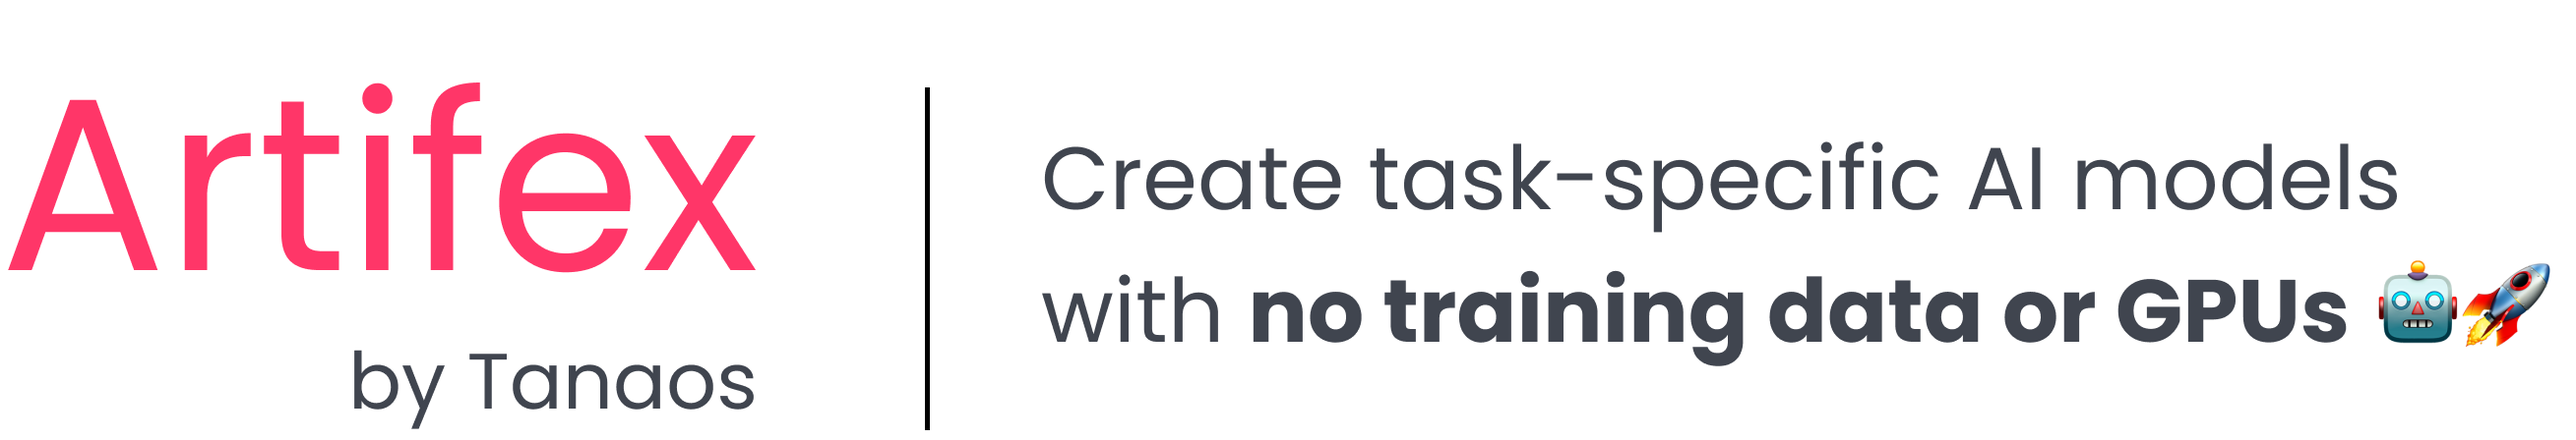
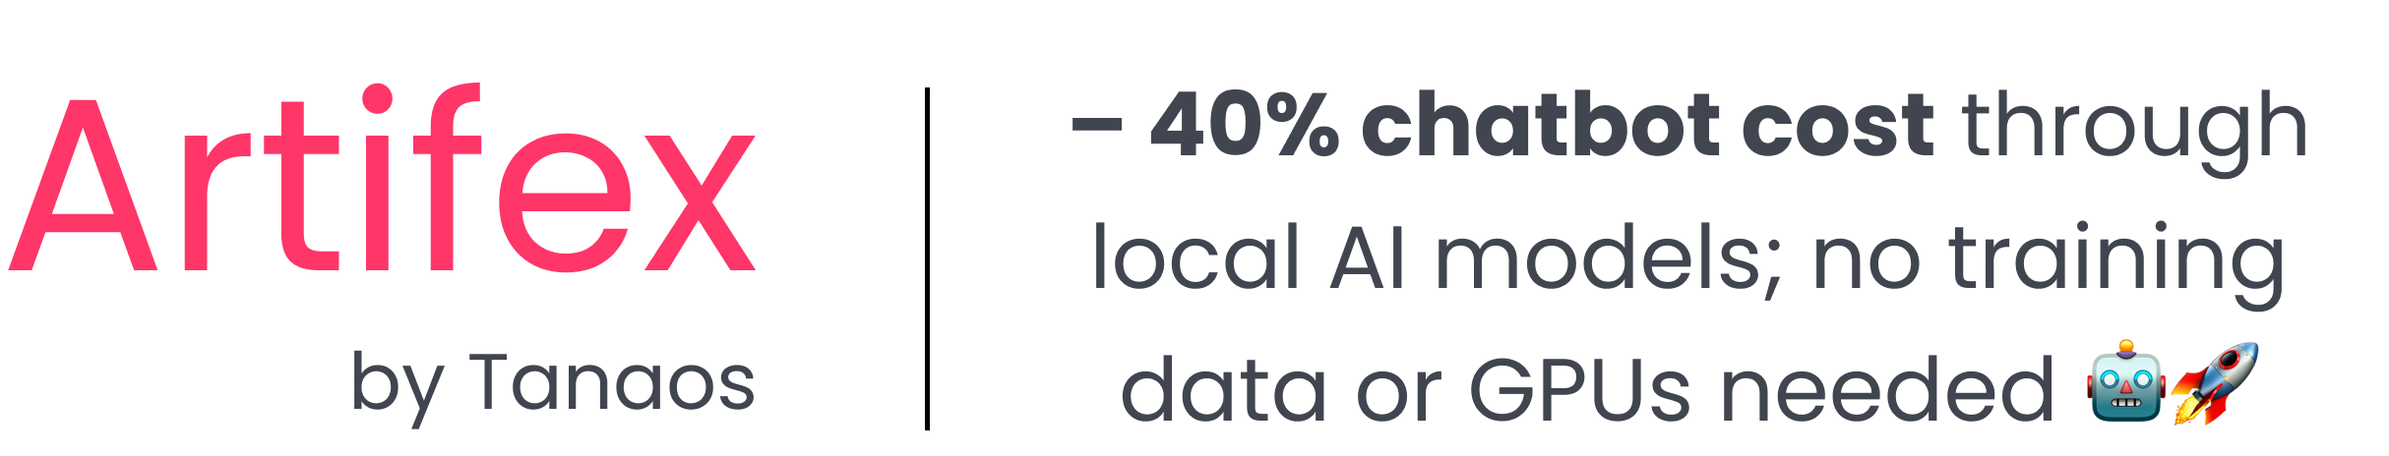
update README.md

Changed region(s): [[0.4016, 0.1875, 1.0, 0.9375], [0.0, 0.1875, 0.3398, 0.625], [0.1236, 0.75, 0.3398, 0.9688]]

diff --git a/README.md b/README.md
@@ -1,12 +1,14 @@
 <p align="center">
     <a href="https://github.com/tanaos/artifex">
-        <img src="https://raw.githubusercontent.com/tanaos/artifex/master/assets/hero.png" width="400px" alt="Artifex - Train small, private AI models without data">
+        <!-- <img src="https://raw.githubusercontent.com/tanaos/artifex/master/assets/hero.png" width="400px" alt="Artifex - Train small, private AI models without data"> -->
+        <img src="assets/hero.png" width="400px" alt="Artifex - Train small, private AI models without data">
     </a>
 </p>
 
 <p align="center">
     <a href="https://github.com/tanaos/artifex">
-        <img src="https://raw.githubusercontent.com/tanaos/artifex/master/assets/banner.png" width="600px" alt="Artifex - Train small, private AI models without data">
+        <!-- <img src="https://raw.githubusercontent.com/tanaos/artifex/master/assets/banner.png" width="600px" alt="Artifex - Train small, private AI models without data"> -->
+        <img src="assets/banner.png" width="600px" alt="Artifex - Train small, private AI models without data">
     </a>
 </p>
 
@@ -42,20 +44,37 @@
   <strong>💸 Cut chatbot costs by up to 40% • 📊 No training data needed • 🌱 No GPU needed </strong>
 </p>
 
-Artifex is a Python library that generates **small, fast, task-specific AI models** (e.g. intent classifiers, guardrails, text-to-SQL converters...) that you can run **locally** — **without any training data or GPU required**.
+Artifex is a Python library that generates **small, fast, task-specific AI models** that you can run **locally** — **without any training data or GPU required**.
 
-It can be used to **reduce chatbot costs by up to 40%**, by offloading common tasks, especially **guardrails**, to small models that you can **run locally** on CPU, instead of relying on expensive APIs.
+It can be used to **reduce chatbot costs by up to 40%**, by offloading common tasks, especially **guardrails**, to small models that you can **run locally** on CPU, instead of relying on expensive API calls.
 
-## 🔥 Features
+## 🔥 Why Artifex?
 
 - **💸 Cut chatbot costs by 40%**: Offload chatbot tasks to local models and reduce the number of paid API calls.
-- **📊 No training data needed**: Uses smart prompting and synthetic generation under the hood.
+- **📊 No training data needed**: Uses synthetic data generation under the hood.
 - **🌱 No GPU needed**: All models are designed to run efficiently on CPU.
 - **🔒 Keep ownership of your models**: Keep exclusive ownership of the models you generate.
 - **🔧 Prebuilt templates for common tasks**:
     - Guardrail
     - Intent Classifier
     - *More coming soon!* [Suggest a task](https://github.com/tanaos/artifex/discussions/new?category=task-suggestions) or [vote one up](https://github.com/tanaos/artifex/discussions/categories/task-suggestions)
+
+## 🔬 Experiments
+
+Comparison of chatbots relying solely to the OpenAI API vs chatbots that offload guardrail tasks to a local model generated with Artifex have shown that the latter:
+
+- Send up to **66% fewer messages** to the OpenAI API
+- Are up to **40% cheaper** overall
+- Have up to **8% lower latency**
+
+While maintaining the same level of safety and quality.
+
+<p align="center">
+    <a href="https://github.com/tanaos/artifex">
+        <!-- <img src="https://raw.githubusercontent.com/tanaos/artifex/master/assets/experiment.png" width="90%" alt="Artifex - Train small, private AI models without data"> -->
+        <img src="assets/experiment.png" width="90%" alt="Artifex - Train small, private AI models without data">
+    </a>
+</p>
 
 ## 🚀 Quick Start
 
@@ -88,7 +107,7 @@ We continue to add new models to Artifex, so stay tuned for updates! Currently, 
 
 - **🛡 Chatbot Guardrail**: Flags unsafe, harmful, or off-topic messages.
 - **🗂 Intent Classifier**: Maps text to intents, such as *"product_inquiry"*, *"send_email"*...
-- **📝 <ins>Got Suggestions?</ins>** If there is a specific task you'd like to perform with Artifex, [write it in the discussion](https://github.com/tanaos/artifex/discussions/new?category=task-suggestions) or [vote up any suggestion](https://github.com/tanaos/artifex/discussions/new?category=task-suggestions)
+- **📝 <ins>Got Suggestions?</ins>** If there is a specific task you'd like to perform with Artifex, [write it in the discussion](https://github.com/tanaos/artifex/discussions/new?category=task-suggestions) or [vote up any suggestion](https://github.com/tanaos/artifex/discussions/new?category=task-suggestions).
 
 ## 🧪 Examples
 
@@ -143,10 +162,20 @@ print(intent_classifier("I fell ill and I'll have to postpone my meeting with th
 # ➜ "reschedule_meeting"
 ```
 
-## 🧩 Plug-and-Play Deployment
+## 🔑 Plans
 
-- Integrate with FastAPI, Flask, Streamlit, or Gradio
-- No external dependencies on OpenAI or GPU runtimes
+**Free plan**: each user enjoys 1500 datapoints per month and 500 datapoints per job for free; this is **enough to train 3-5 models per month**.
+
+**Pay-as-you-go**: for additional usage beyond the free plan:
+1. create an account on [our platform](https://platform.tanaos.com) 
+2. add credits to it
+3. create an Api Key and pass it to Artifex at instantiation, then use it normally:
+    ```python
+    from artifex import Artifex
+
+    guardrail = Artifex(api_key="<your-api-key>").guardrail
+    ```
+    The pay-as-you-go pricing is **1$ per 100 datapoints**. Once you finish your credits, if you have not exceeded the monthly limit, you will be **automatically switched to the free plan**.
 
 ## 🤝 Contributing
 
